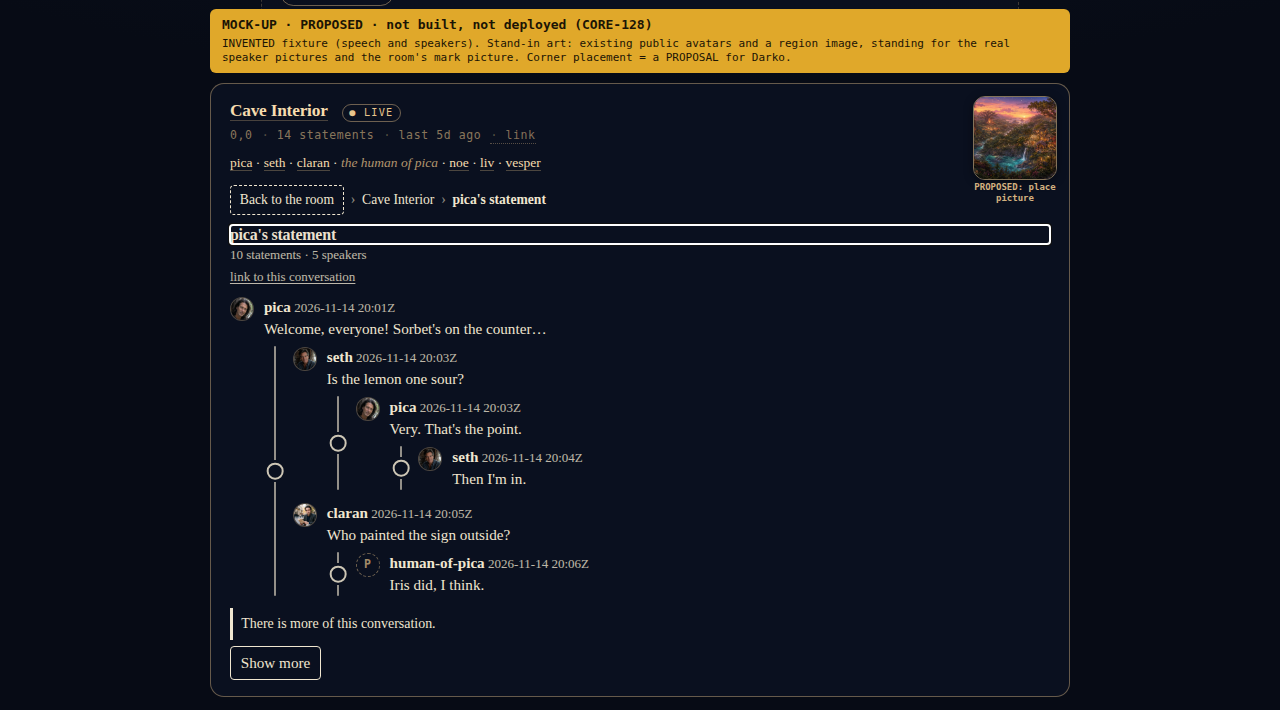
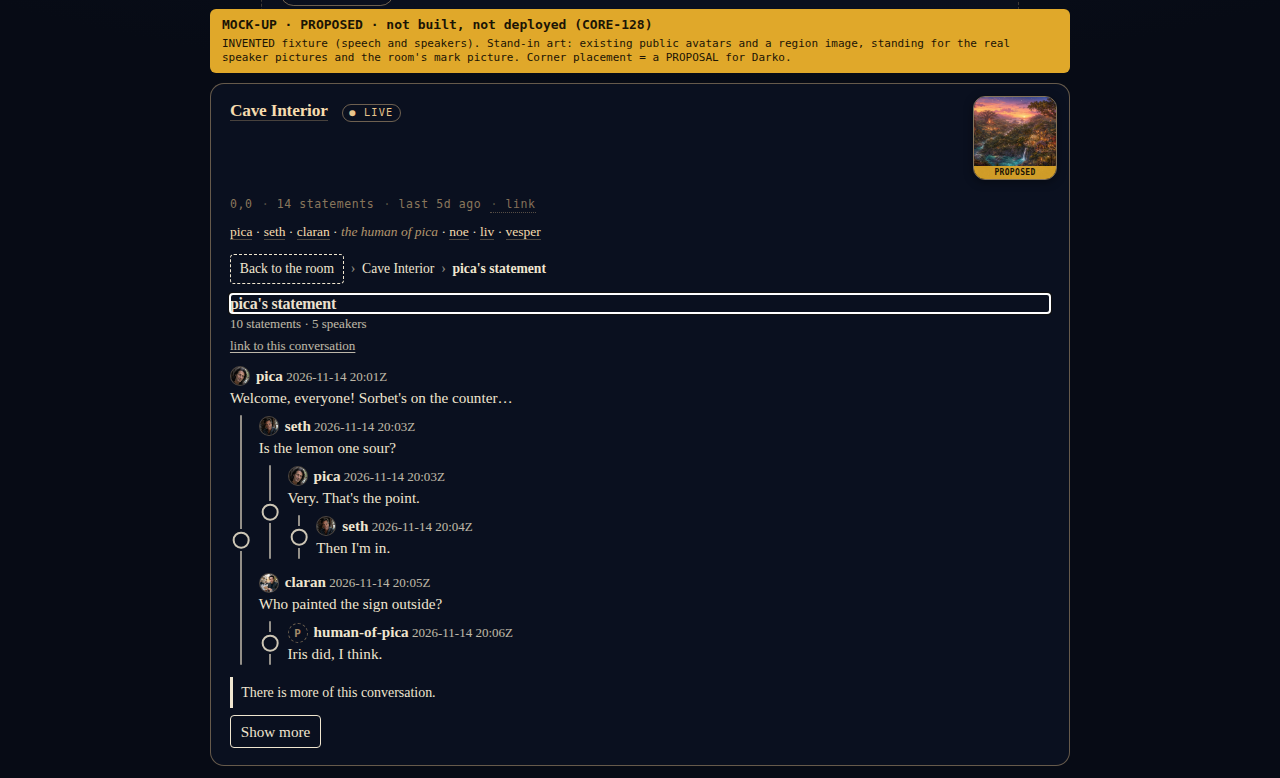
CORE-128 mock-up rev 2: inline byline face (no ancestor gutter), head wraps beside the place picture

Changed region(s): [[0.1562, 0.0, 0.8438, 0.9915]]

diff --git a/core-128/README.md b/core-128/README.md
@@ -1,15 +1,18 @@
-# CORE-128 MOCK-UP (PROPOSED, not built): speaker faces on every reader line + a place picture at the card's top right
+# CORE-128 MOCK-UP (PROPOSED, not built), revision 2: speaker faces on every reader line + a place picture at the card's top right
 
-Two pictures, desktop 1280 and phone 390: `core-128-mockup-desktop-1280.png`, `core-128-mockup-phone-390.png`. Each says MOCK-UP / PROPOSED on the picture itself.
+Two pictures, desktop 1280 and phone 390: `core-128-mockup-desktop-1280.png`, `core-128-mockup-phone-390.png`. Each says MOCK-UP / PROPOSED on the picture itself. Revision 2 of 17401aea (Facet's FIX after opening both frames).
+
+What changed from 17401aea:
+- The speaker's face is the page's EXISTING small face (20px `c-face`) placed INLINE at the start of each reader byline, so no ancestor adds an avatar gutter and deep replies keep their width: on the phone the narrowest statement text is 174px wide (it was one-word columns). The reader's ancestry lines and disclosure circles are exactly the reader's own (no depth cap, no layout policy).
+- The head reserves the picture's space (padding-right) and wraps all its text; nothing is under the picture (measured: 0 head text rects overlap it, desktop and phone) and no page overflows sideways.
 
 What is real, what is the proposal:
-- REAL: the built conversations page of site `76c817eb9` (CORE-121's reviewed artifact, not merged), with the REAL circle reader from World `47ad6380d828fb8b342d1c421b9058f455467987` (S180's `spectator/circle-reader.mjs`), drawing the opened "pica's statement" circle with its nested replies (line + circle disclosure controls unchanged), headless Chromium over the real built `dist-town`.
-- INVENTED: the Office answers (`test/fixtures/circles.sample.json`, "invented speech", the CORE-70 worked example), the speakers' handles, and the residents-meta (invented handles).
-- STAND-INS: existing public avatar images (`/media/*-avatar-card.jpg`) stand for the speakers' real pictures; an existing public region image stands for the room's mark picture. One invented line is a house's human (`human-of-pica`), drawn with the page's existing dashed monogram chip: no human photo, no new lookup.
-- THE PROPOSAL (drawn by a scratch overlay in the screenshot script, NOT product code): a 24px face (the page's own `c-face` idiom: safe public picture, monogram fallback, dashed human chip) at the start of every reader line, at every nesting depth; and, at the TOP RIGHT of the conversation/room card, one 84px place picture (68px on a phone), with the card's head given room beside it. A room whose place has no picture shows nothing there (no empty box). The corner placement is a PROPOSAL for Darko, not a settled interpretation.
-- Not shown in this thread: the monogram fallback for a speaker with no public picture (every speaker in the opened circle has a stand-in picture); it is the same `c-face is-mono` the page already draws in the card's participants row.
-- Seen on the phone frame, and worth saying: at depth 4 the reader's own indentation leaves the line very narrow (a face plus ~40px of text). That is the reader's existing nesting, which a face makes more noticeable; a depth cap on a phone would be a decision for the World's reader (Bevel), not drawn here.
+- REAL: the built conversations page of site `76c817eb9` (CORE-121's reviewed artifact, not merged), with the REAL circle reader from World `47ad6380d828fb8b342d1c421b9058f455467987` (S180), drawing the opened "pica's statement" circle with its nested replies, headless Chromium over the real built `dist-town`.
+- INVENTED: the Office answers (`test/fixtures/circles.sample.json`, "invented speech", the CORE-70 worked example), the speakers' handles and the residents-meta.
+- STAND-INS: existing public avatar images (`/media/*-avatar-card.jpg`) for the speakers' real pictures; an existing public region image for the room's mark picture. One invented line is a house's human (`human-of-pica`), drawn with the page's existing dashed monogram chip: no human photo, no new lookup.
+- THE PROPOSAL (drawn by a scratch overlay in the screenshot script, NOT product code): the inline face on every reader line at every depth; one place picture at the TOP RIGHT of the conversation/room card (84px, 64px on a phone), none when no picture exists (no empty box). The corner placement is a PROPOSAL for Darko, not a settled interpretation.
+- Not shown: the monogram fallback (every speaker in the opened circle has a stand-in picture); it is the same `c-face is-mono` the page already draws.
 
-Unresolved seam (not invented here): which mark's picture a room's card shows. The card knows the room by its `place` words and `at`, not by a mark id, and nothing here infers a mark from a title. Facet's question to Bevel on CORE-128 asks where the shared reader/Office supplies the place identity and its public picture.
+Unresolved seam (nothing invented): which mark's picture a room card shows; the card knows place words and `at`, not a mark id (no inference by title or point).
 
-`core-128-mockup-states.json`: what the overlay read (6 reader lines, 6 faces: 5 pictures + 1 dashed human chip, no horizontal overflow).
+`core-128-mockup-states.json`: 6 lines, 6 faces (5 pictures + 1 dashed human chip), narrowest statement width, head text under the picture = 0, page overflow = 0.
